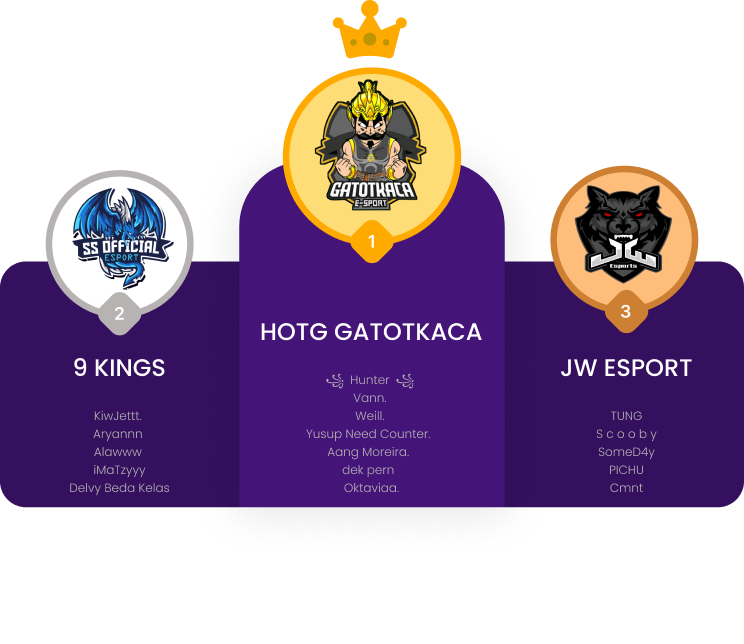
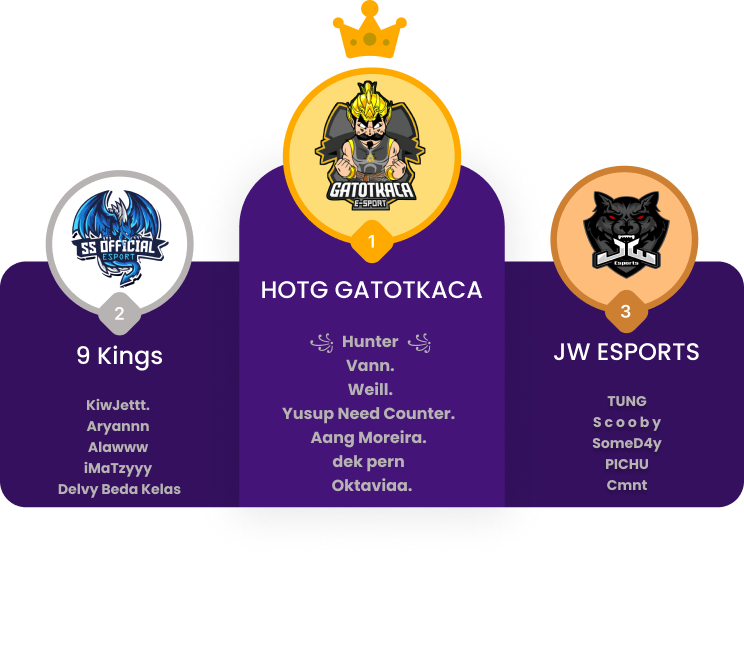
update

diff --git a/css/podium.css b/css/podium.css
@@ -229,7 +229,7 @@ body {
     color: #fff;
     text-shadow: 0px 8.59007px 8.59007px rgba(0, 0, 0, 0.86);
     max-width: 100%;
-    margin-top: -6rem;
+    margin-top: -8.5rem;
   }
   .yt1 {
     text-align: center;
@@ -303,7 +303,7 @@ body {
     }
 
     .yt1 h2 {
-    margin-top: -2.8rem;
+    margin-top: -4.1rem;
     font-family: 'Poppins';
     font-weight: 500;
     font-size: 10px;
